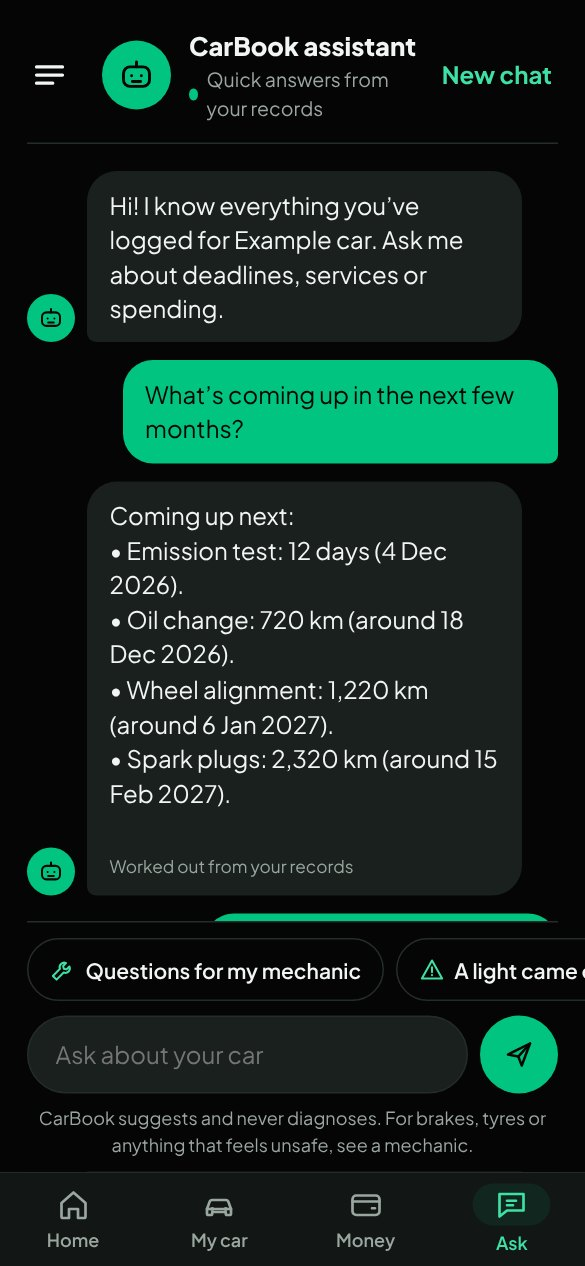
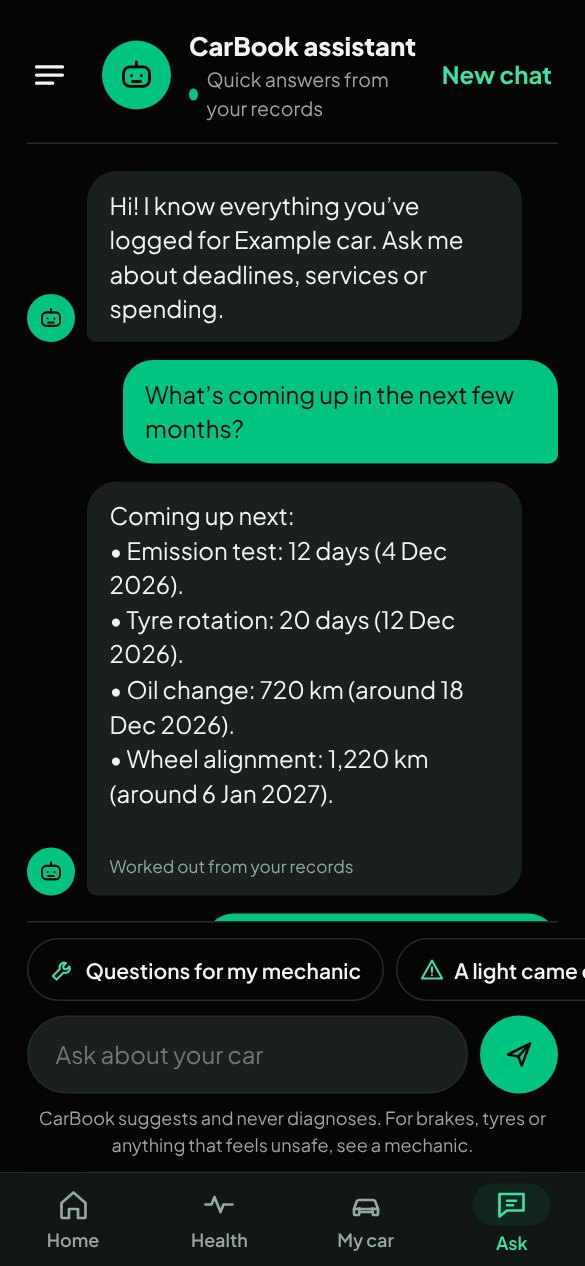
Notes and guides for the parts catalogue and new layout; screenshot tool follows the new tabs; refreshed website screenshots
Claude-Session: https://claude.ai/code/session_01FM4jDjDSFjWPSRL6SLVU9D

Changed region(s): [[0.1846, 0.4621, 0.8615, 0.6469], [0.5846, 0.9242, 0.6769, 0.9858], [0.3385, 0.9242, 0.4308, 0.9858]]

diff --git a/development/tools/app-screenshots.js b/development/tools/app-screenshots.js
@@ -16,8 +16,8 @@ const out = path.join(__dirname, '..', '..', 'website', 'img');
   await shot('home');
   await p.click('[data-act=menu]'); await p.click('#menu [data-tab=lights]'); await p.waitForTimeout(300); await shot('lights');
   await p.click('[data-code=engine]'); await p.waitForTimeout(300); await shot('light-detail'); await p.click('[data-close]');
-  await p.click('[data-tab=car]'); await p.click('[data-key=oil]'); await p.waitForTimeout(300); await shot('oil'); await p.click('[data-close]');
-  await p.click('[data-tab=money]'); await p.waitForTimeout(500); await shot('money');
+  await p.click('#tabs [data-tab=health]'); await p.click('[data-key=oil]'); await p.waitForTimeout(300); await shot('oil'); await p.click('[data-close]');
+  await p.click('#tabs [data-tab=car]'); await p.click('.list [data-tab=money]'); await p.waitForTimeout(500); await shot('money');
   await p.click('[data-tab=ask]'); await p.click('[data-act=suggest]'); await p.waitForTimeout(300); await p.click('[data-act=mechQs]'); await p.waitForTimeout(300);
   await p.evaluate(() => scrollTo(0, 0)); await shot('ask');
   await b.close();

diff --git a/CLAUDE.md b/CLAUDE.md
@@ -21,6 +21,7 @@ Open a terminal in this folder and run `python3 -m http.server 8080`, then visit
 
 ## Product rules
 - **Car health (the heart of the app, November 2026):** Home opens with Car health: a tile for every part that wears out (engine oil, battery, brake pads, tyres, wheel alignment, spark plugs, engine tune-up, air filter, AC filter, brake fluid, coolant, gearbox oil, wiper blades), each with a life bar and how long is left, plus a ring for how many parts are on track. Life comes from the last record and the default intervals in `INTERVALS` (`partLife` in `app.js`); parts that do not apply to the vehicle are hidden (`partFits`). Fuel is a smaller feature: it lives in the Money tab, not on Home. The fill-up form asks for a photo of the dashboard first, because the odometer reading keeps Car health up to date (reading it automatically needs the photo-reading backend).
+- **Parts catalogue (November 2026):** about 230 parts from the owner's maintenance checklist research (`research/maintenance-checklist/`), built into `catalogue.js` and `strings.js` (`cat_<id>_name`, `_check`, `_typical`) by `development/tools/build-catalogue.py`. On the Health tab owners type to search or browse by group, then add a part: they see how often to check it and its typical replacement, get a suggested reminder (the shorter end of the typical range, editable), can enter when it was last done, and can set their own reminder date. Condition-based parts have no suggested interval, only the owner's date. Picks are stored in `db.tracked` (`comp` is `c:<id>` or a built-in part); service records for catalogue parts use kind `c:<id>`. Any part, built-in or not, can have a reminder date.
 - **Your records:** one place for warranties, service records and part changes (`warrantyList`, `serviceList`, `PART_CHANGES`).
 - **Phase 1 (now):** deadlines and renewals, maintenance status with plain explanations, a year-ahead plan with estimated service dates, fuel and spending trends (1 month to 5 years, compared with the period before), service and fuel records, and Ask (a chat about the owner's records, plus questions for the mechanic).
 - Estimated service dates use the owner's average km per day from the last year of records. Always label them "estimated".
@@ -37,7 +38,7 @@ Every record has `id`, `vid` (vehicle id, separate from any owner), `createdAt`,
 
 ## Design rules
 The app is for owners who are not vehicle experts and want to know they are doing everything right. Plain words, one clear next step, details only when asked.
-- Fintech look and feel (like a modern money app): near-black page with dark grey floating cards, round quick-action buttons, and Recent activity listed like transactions with amounts on the right. Home, top to bottom: Car health, the urgent banner, Coming up, quick actions, Your records, Recent activity (no fuel entries). The dark green-black wallet card with a soft mint glow now sits only on the Money tab (fuel spent, like a balance). Earlier versions said "white background"; the owner later chose this finish.
+- Fintech look and feel (like a modern money app): near-black page with dark grey floating cards, round quick-action buttons, and Recent activity listed like transactions with amounts on the right. Kept short so it needs little scrolling. Tabs: Home, Health, My car, Ask (Fuel and money is in the side menu, My car and a quick action). Home, top to bottom: a red dashboard-light banner only when one is recorded, a compact Car health card (ring plus at most four parts needing attention, then Open Car health), recorded lights, Coming up as a short list of tests, insurance, licences, warranties and the owner's reminders, quick actions, and a Need help? card (A light came on, Ask about my car, What to ask my mechanic). The Health tab has the full tracker grouped by status, with search and browse. My car has papers, Your records, links, recent activity and settings. The dark green-black wallet card with a soft mint glow sits only on the Money screen. Earlier versions said "white background"; the owner later chose this finish.
 - Colours follow the MotorPal logo (`marketing/logo/final/`): black #050505, deep mint #00A86B, white. `--green` is a deep mint (#007A51, readable with white text) for the brand and main actions; `--yellow` now holds the bright mint highlight (#00C47F, with black text) for the add button, dates and the car card. The token names were kept so the CSS did not need rewriting. The owner moved from green and goldfish yellow to this in November 2026. Red means needs attention now, amber means coming up soon, green means on track, always with a word next to the colour.
 - A side menu (the button at the top left) lists every area, quick adds and settings. Four tabs: Home (a big banner for the single most urgent item with its own icon: a dark card; "needs attention now" is a plain dark card with no red at all, marked only by a larger honey caution triangle that blinks; "coming up soon" and "on track" show a muted honey or mint dot and hairline outline, because the owner wants the warning to blend with the black and mint, swipeable cards for what's coming up, at-a-glance tiles), My car (papers, maintenance, records, settings), Money (fuel and spending), Ask (a chat screen with an assistant avatar, bubbles, quick-question chips and a send bar; the mechanic questions are a chip). One yellow + button adds anything.
 - Show, don't write: every item has its own icon (`KIND_ICON` in `app.js`), and screens lead with icons and numbers rather than sentences.

diff --git a/research/README.md b/research/README.md
@@ -7,6 +7,7 @@ New research, studies, business cases, reports and source notes go in this folde
 |---|---|
 | Road safety business case (vehicle fitness tests, accident figures, the opportunity) | `business-case/motorpal-road-safety-business-case.pdf` |
 | Project summary: what we have built, the problem, features, work in progress | `project-summary/motorpal-project-summary.pdf` |
+| Vehicle maintenance master checklist (the owner's research, about 230 parts with check and replacement guidance; the source of the app's parts catalogue) | `maintenance-checklist/vehicle-maintenance-master-checklist.docx` and `maintenance-checklist/items.json` |
 | Product, competitor report and plan | https://claude.ai/artifact/P66hWg1TfqZk8zWL5yR8L2 (private until shared) |
 | Project and marketing plan: research to do, Sri Lankan competitors, SWOT, organic marketing | https://claude.ai/artifact/4ZKbRaFN2wMHqvpRDL3r5y (private until shared) |
 

diff --git a/development/README.md b/development/README.md
@@ -13,6 +13,7 @@ The public website is in `website/` (live at https://3220interflash-sys.github.i
 ## Tools
 | Tool | What it does |
 |---|---|
+| `tools/build-catalogue.py` | Rebuilds the parts catalogue (`catalogue.js` and its wording in `strings.js`) from `research/maintenance-checklist/items.json`. Run `python3 development/tools/build-catalogue.py`, then bump `VERSION` in `sw.js`. |
 | `tools/app-screenshots.js` | Retakes the six app screenshots the website shows. Start the app with `python3 -m http.server 8080`, then run `node development/tools/app-screenshots.js`. |
 
 New development notes, scripts and technical plans (for example the photo-reading server or the Play Store packaging) go in this folder.
